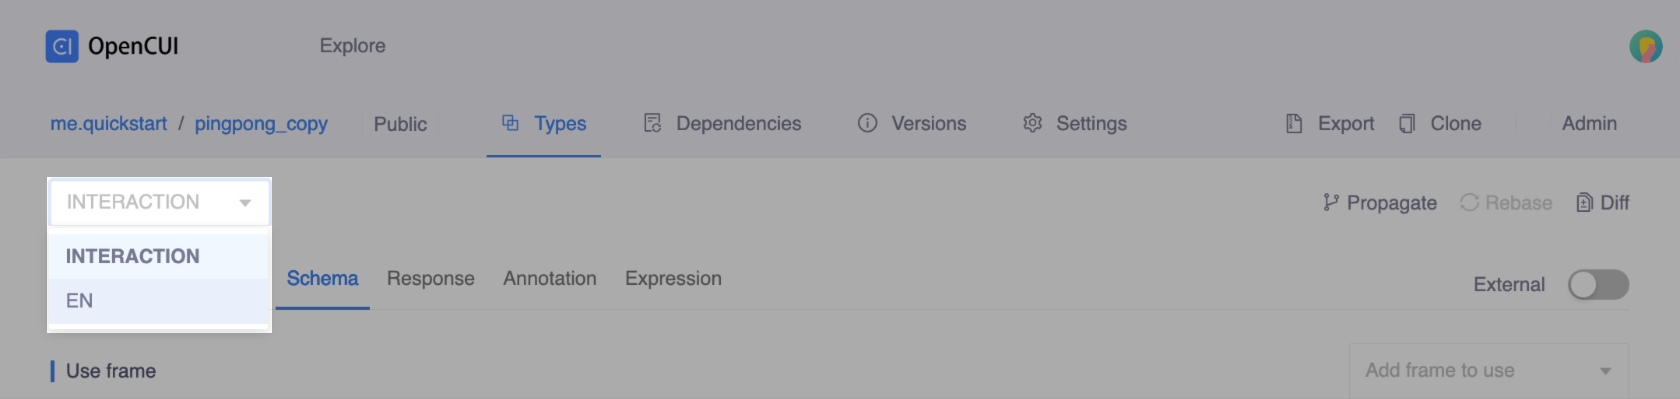
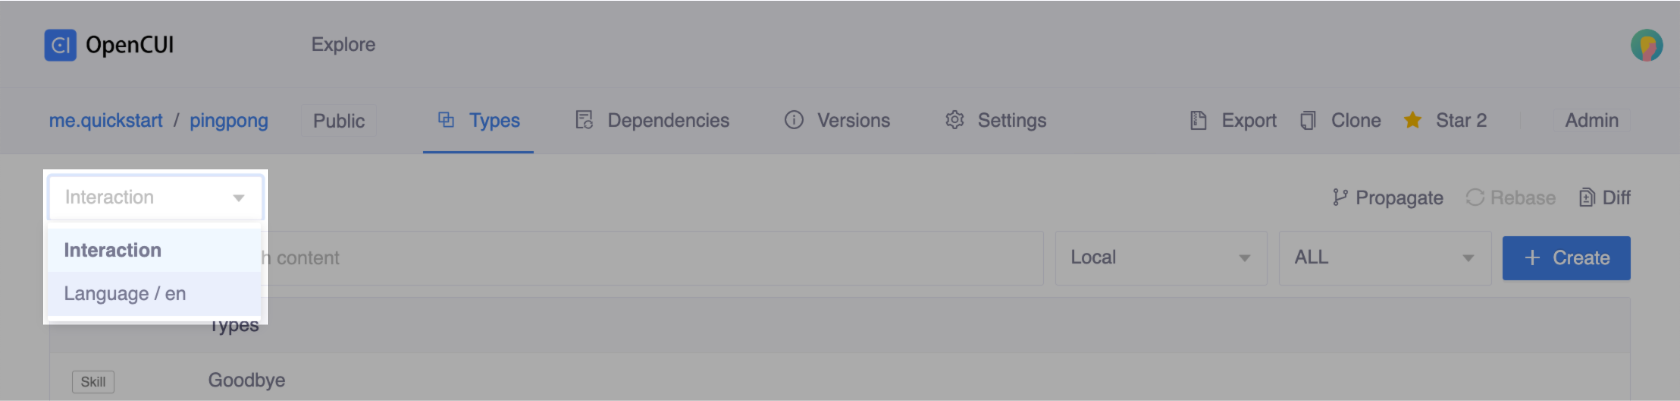
update pingpong.md

diff --git a/docs/guide/pingpong.md b/docs/guide/pingpong.md
@@ -1,7 +1,7 @@
 # Build a simple chatbot
 The goal of a chatbot is to deliver functionality to the user through a conversational user interface. In order to do that, it first needs to create a callable instance of some function type that can be invoked by the user. To achieve this, we need to be able to create instances conversationally for any type that is required by the parameters for functions and attributes for user defined types (both are slots on OpenCUI). This suggests that we can build a conversational user interface in a type-based fashion in two steps: 
-- Declare all the types we want to expose;
-- Attach dialog annotations to these types and their slots, which describe how the whole or part of the type can be instantiated conversationally.
+1. Declare all the types we want to expose;
+2. Attach dialog annotations to these types and their slots, which describe how the whole or part of the type can be instantiated conversationally.
 
    ::: thumbnail
    ![create save](/images/guide/pingpong/urr.png)
@@ -44,7 +44,7 @@ OpenCUI adopts a [5 levels maturity model](../essentials/5levels-cui.md) for CUI
 - It is useful to get familiar with [the type-based way of building chatbot](../essentials/README.md).
 - We assume that you have finished [clone a chatbot,](./start-with-clone.md) so you know what to build.
 
-## Create chatbot
+## Create a chatbot
 When you sign up for OpenCUI, a personal organization is automatically created for you. You can create a chatbot under this organization (or any other organization) following these steps:
 1. Within an organization, in the upper right corner of the project area, click **Create** and select **Create chatbot**.
 2. In the pop-up window, complete the form for chatbot basic settings. For this simple chatbot, you only need to fill in the following three fields:
@@ -71,10 +71,10 @@ If the chatbot is created successfully, it should be displayed as shown below:
 ## Build a chatbot
 Since chatbots can be thought of as a set of independent functionalities, each of these conversationally exposed functions is defined by a skill. We can build a chatbot by building skills, one skill at a time. To build a composite type like skill, we first need to build its dependent types, recursively. In this tutorial, let's see how we can define a simple skill: 
 
-### Build dependent types
+### Build an entity
 The most basic type on OpenCUI is "entity". It is a primitive type that the chatbot knows how to extract the value of this type from user utterance. OpenCUI provides many predefined entities, such as `java.time.LocalDate` for dates, `io.opencui.core.Email` for email addresses, and so on. In this case, let's build a custom entity type `Location`. 
 
-#### Create entity type and add instances
+#### Create an entity and add an instance
 Ensure that you are inside the **pingpong** chatbot and at the **Interaction** view:
 1. Click **Create** button on the right side, and select **Create entity** to create a new entity.
 2. Enter a label for the entity type and press enter. For example, `Location`.
@@ -84,23 +84,32 @@ Ensure that you are inside the **pingpong** chatbot and at the **Interaction** v
     ![create entity](/images/guide/pingpong/create_entity.png)
     :::
 
-#### Add annotation
+#### Add annotations
 To enable the chatbot to extract user mentions and create instances of this type from utterances, one or more recognizers must be configured for each type. User-defined entities come with a list-based recognizer, which requires the builder to [enumerate common expressions](../reference/annotations/templateandexemplar.md#expression-for-entity-instance) for each instance that was added for this type in the previous step.
+
+Before beginning work on the language layer, be sure to [propagate](./opencui-flow.md#propagate-the-changes-to-language-layer) the changes made in the interaction layer to the language layer, and then [switch over to the language layer](./opencui-flow.md#switch-from-interaction-layer-to-language-layer). At language layer, configure the following annotations:
+
 1. Navigate to the entity and head to the **Instances** tab. 
 2. Click the instance entry, add **Expressions** in the pop-up window.
-3. Click **Save**.     
-::: thumbnail
-![pingpong add entity instance expression](/images/guide/pingpong/pingpong_entity_instance.png)
-:::
+3. Click **Save**.
+    ::: thumbnail
+    ![pingpong add entity instance expression](/images/guide/pingpong/pingpong_entity_instance.png)
+    :::
 
-### Build skill
+4. Within the `Location` entity, head to the **Expression** tab.
+5. In the **Names** section, enter `Location` for the Location entity display name and press enter. This field also provides examples of how this type is mentioned in different languages.
+    ::: thumbnail
+    ![pingpong add entity expression](/images/guide/pingpong/pingpong_entity_expression.png)
+    :::
+
+### Build a skill
 Conceptually, a skill is a conversationally exposed functions, with input parameters represented by its slots. In this tutorial, let's build a simple skill "pingpong" with a single slot of Location type. A location is a required slot for this skill, so when it is missing from the user's initial utterance, the chatbot will prompt the user for it. Once the instance of this function type is created, the chatbot simply produces an acknowledgement in the form of `pong to ${location}`.
 
 #### Declare a skill at schema level
 First, let's declare a skill at the schema level. This includes creating the skill first and then adding a slot, a local function and services.
 
 ##### Create a skill
-1. Go to the **pingpong** chatbot and ensure that you are at the **Interaction** view.
+1. Within the **pingpong** chatbot, head to **Types** page and switch to the **Interaction** layer.
 2. Click **Create** button on the right side, and select **Create skill** to create a new skill.
 3. Enter a label for the skill and press enter. For example, `PingPong`.
    ::: warning Need To Know
@@ -115,10 +124,10 @@ First, let's declare a skill at the schema level. This includes creating the ski
    ![intent label](/images/guide/pingpong/intent_label.png)
    :::
 
-##### Add slots
+##### Add a slot
 On a composite type's **Schema** tab, we can add slots to this skill.
 To add a slot to a type:
-1. Navigate to the `PingPong` skill and ensure that you are at the **Interaction** level.
+1. Within the `PingPong` skill, ensure that you are at the **Interaction** level.
 2. Under the **Schema** tab, select the type you want to add as slot in the **Slots** section. In this case, select entity type `Location`.
 3. Use a label `location` for this slot, so that you can reference it in the response.
 
@@ -126,56 +135,57 @@ To add a slot to a type:
 ![add slot](/images/guide/pingpong/add_slot.png)
 :::
 
-#### Add dialog annotation to type
+#### Add annotations to the slot
 For any conversationally exposed composite type, we always need to add exemplars and templates at the language level. For this simple skill, in case the user did not provide the location in the initial utterance, the chatbot needs to prompt the user for that information. The exact prompt behavior is controlled by configuring the [fill strategy](../reference/annotations/fillstrategy.md) for that slot. This needs to be done in both Interaction layer and language layer.
 
 ##### Interaction level
-Ensure that you are in the `PingPong` skill and at the **Interaction** level first:
-- Navigate to the **Schema** tab and click into the `location` slot. Select **Always ask** in the **Fill strategy** section.
+1. Inside the `PingPong` skill, ensure that you are at the **Interaction** level.
+2. Within the `location` slot of `PingPong` skill, select **Always ask** in the **Fill strategy** section.
    ::: thumbnail
    ![define fill strategy](/images/guide/pingpong/always_ask.png)
    :::
    
 ##### Language level
-Before you start on language layer, always remember to [propagate](opencui-flow.md#propagate-the-changes-to-language-layer) the Interaction layer changes to language layer. At language layer, a couple of annotations need to be configured as follows:
+Be sure to [propagate](opencui-flow.md#propagate-the-changes-to-language-layer) the changes made in the interaction layer to the language layer before [switching over to the language layer](./opencui-flow.md#switch-from-interaction-layer-to-language-layer). At language layer, configure the following annotations:
 
-1. Switch to the language layer by selecting the language you want to work with from the language selector in the upper-left corner. In this case, select **EN** for English.
-   ::: thumbnail
-   ![switch pingpong en](/images/guide/pingpong/switch_pingpong_en.png)
-   :::
-
-2. Fill templates for Prompt. When fill strategy of slot is always ask, you must add at least one template to [Prompt](../reference/annotations/templateandexemplar.md#prompt).
-    1. Navigate to the **Schema** tab and click into the `location` slot.
-    2. Enter the sentences in **Prompts** section. For example, "*Wow. Where is the "ping" coming from?*".
-       ::: thumbnail
-       ![add prompt](/images/guide/pingpong/add_prompt.png)
-       :::
-
-3. Add utterance exemplars to help dialog understanding module to convert utterance into event, some structured representation of meaning.
-    1. Navigate to the skill and head to the **Expression** tab.
-    2. In the **Names** section, enter `Ping Pong` for the pingpong skill display name and press enter. This field also provides examples of how this type is mentioned in different languages.
-    3. In the **Expressions** section, enter `ping` and press enter. If a user's utterance matches any of the exemplars entered here, it will be considered as an intention to trigger this skill.
-       ::: thumbnail
-       ![pingpong expression](/images/guide/pingpong/pingpong_expression.png)
-       :::
-
-
-#### Add response
+1. Within the `location` slot of `PingPong` skill, ensure that you are at the **Language / en** level.
+2. Fill templates for Prompt. When fill strategy of slot is always ask, you must add at least one template to [Prompt](../reference/annotations/templateandexemplar.md#prompt). 
+   - Head to the **Annotation** tab.
+   - Enter the sentences in **Prompts** section. For example, "*Wow. Where is the "ping" coming from?*".
+3. Add names for `location` slot. 
+   - Head to the **Expression** tab.
+   - Enter the names in **Names** section, such as "Location".
+   
+::: thumbnail
+![add prompt](/images/guide/pingpong/add_prompt.png)
+:::
+   
+#### Add annotations to the skill
 After being triggered, the pingpong skill responds a *"pong"* based on the location provided by the user, this behavior is controlled by a response. Responses are executed after the chatbot has all the slots filled per Interaction logic defined by attached dialog annotations. In reality, we should call out the service APIs and render the return back to user in natural text. It is often necessary to reference slots and functions in the response, which can be easily done using `${}` since all templates on OpenCUI are Kotlin string templates.
 
-##### Interaction level 
-Navigate to the **Response** tab and select **Single value message** under the **Default action** section to declare a simple reply.
+##### Interaction level
+1. Inside the `PingPong` skill, ensure that you are at the **Interaction** level.
+2. Navigate to the **Response** tab and select **Single value message** under the **Default action** section to declare a simple reply.
 
 ::: thumbnail
 ![add response](/images/guide/pingpong/add_response.png)
 :::
 
 ##### Language level
+Be sure to [propagate](opencui-flow.md#propagate-the-changes-to-language-layer) the changes made in the interaction layer to the language layer before [switching over to the language layer](./opencui-flow.md#switch-from-interaction-layer-to-language-layer).
 
- Navigate to the **Responses** tab, enter `Great! Pong to ${location?.expression()}.` in the **Single value message** field and press enter.
- ::: thumbnail
- ![pingpong simple reply](/images/guide/pingpong/pingpong_simple_reply.png)
- :::
+1. Under to the **Responses** tab, enter `Great! Pong to ${location?.expression()}.` in the **Single value message** field and press enter.
+::: thumbnail
+![pingpong simple reply](/images/guide/pingpong/pingpong_simple_reply.png)
+:::
 
-## Test chatbot
+2. Add utterance exemplars to help dialog understanding module to convert utterance into event, some structured representation of meaning.
+   - Navigate to the `PingPong` skill and head to the **Expression** tab.
+   - In the **Names** section, enter `Ping Pong` for the pingpong skill display name and press enter. This field also provides examples of how this type is mentioned in different languages.
+   - In the **Expressions** section, enter `ping` and press enter. If a user's utterance matches any of the exemplars entered here, it will be considered as an intention to trigger this skill.
+   ::: thumbnail
+   ![pingpong expression](/images/guide/pingpong/pingpong_expression.png)
+   :::
+
+## Test a chatbot
 Before you begin testing your newly defined chatbot using the **Debug** tool, click **Commit** in the upper-right corner to commit your changes in the language layer. Note that Debug can only be used to test committed content for current language, per [OpenCUI workflow](opencui-flow.md#commit-the-changes).

diff --git a/docs/guide/start-with-clone.md b/docs/guide/start-with-clone.md
@@ -38,9 +38,9 @@ A project's label or region can not be changed after creation or clone, so choos
 Before your chatbot is fully ready to be deployed to production environment, OpenCUI includes a built-in **Debug** tool that allows you to test your design in a development environment, so that you can uncover CUI design bugs as early as possible. There are some restrictions with this tool: you can't test your chatbot in asynchronous extensions including channels like Messenger. Furthermore, you can only test one language at a time, and only committed content in your branch.
 
 To test your chatbot using Debug, follow these steps:
-1. Switch to a language view, in this case we switch to **EN**. 
+1. Switch to a language view, in this case we switch to **Language / en**. 
    ::: thumbnail
-   ![try it now](/images/guide/pingpong/switch_pingpong_en.png)
+   ![try it now](/images/guide/start-with-clone/switch_pingpong_en.png)
    :::
 2. In a language view, click **Debug** in the upper-right corner of the Types area , the debug window will slide out. 
    ::: thumbnail

diff --git a/docs/guide/use-hours.md b/docs/guide/use-hours.md
@@ -1,5 +1,5 @@
 # Reuse a full-stack component
- Modern business applications are typically broken down into a set of services, each responsible for a specific functionality. For example, airline might have a ticketing service, which includes booking, checking whether a seat is available and canceling. All user interfacing applications are built to expose these kinds of services, chatbot included.
+Modern business applications are typically broken down into a set of services, each responsible for a specific functionality. For example, airline might have a ticketing service, which includes booking, checking whether a seat is available and canceling. All user interfacing applications are built to expose these kinds of services, chatbot included.
 
 A service defines a set of API functions that specify how business functionalities can be accessed. By using a service as an interface, you can divide chatbot building into backend for business logic and frontend for conversational user interface, each of which can be taken care of by different teams.
 

diff --git a/docs/guide/opencui-flow.md b/docs/guide/opencui-flow.md
@@ -19,6 +19,13 @@ Our type-based approach allow you to build CUI for your service in two steps: de
    ![propagate interaction change](/images/guide/pingpong/commit_pingpong_struct.png)
    :::
 
+## Switch from interaction layer to language layer
+Once you've propagated the changes to the language layer, you can then switch over to the language layer to add templates and exemplars.
+
+   ::: thumbnail
+   ![switch pingpong en](/images/guide/pingpong/switch_pingpong_en.png)
+   :::
+
 ## Commit the changes
 In your branch, you can make any desired changes to the project, such as the changes in [Build a chatbot](./pingpong.md) guide. If you make a mistake, you can undo your changes or revert to your latest commit. Your changes will not be added to the master branch until you merge your branch. To test your change using OpenCUI **Debug** tool, you need to commit the change first.
 
